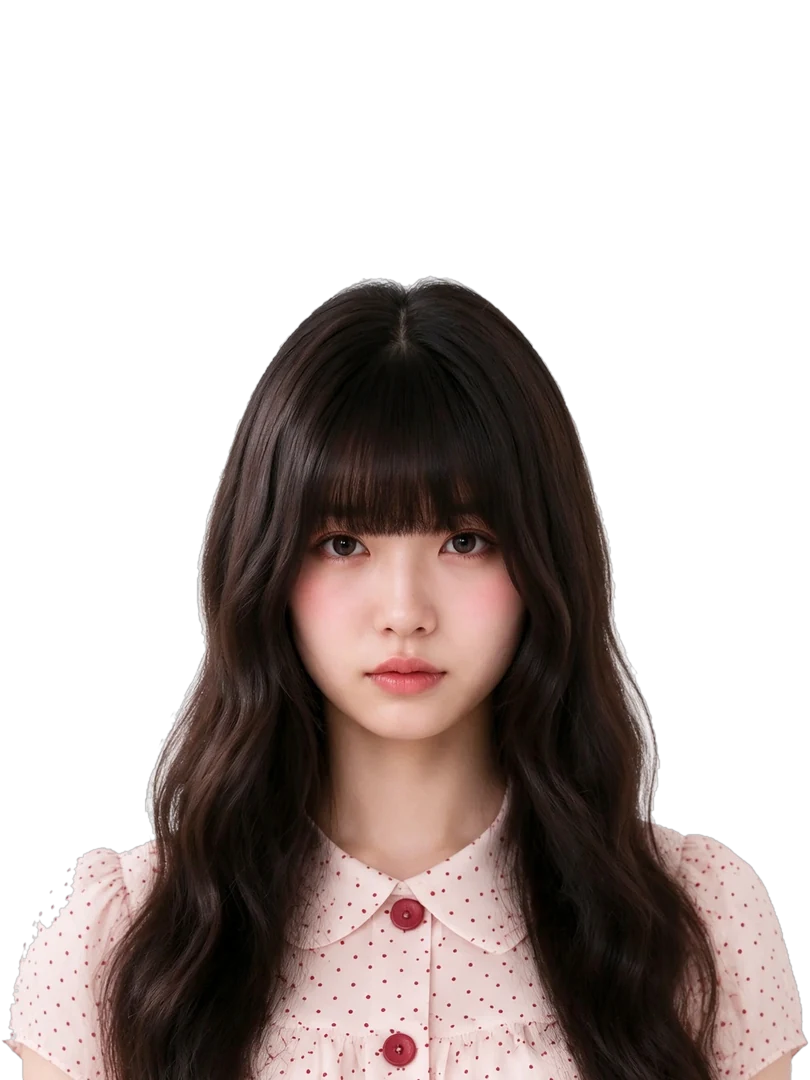
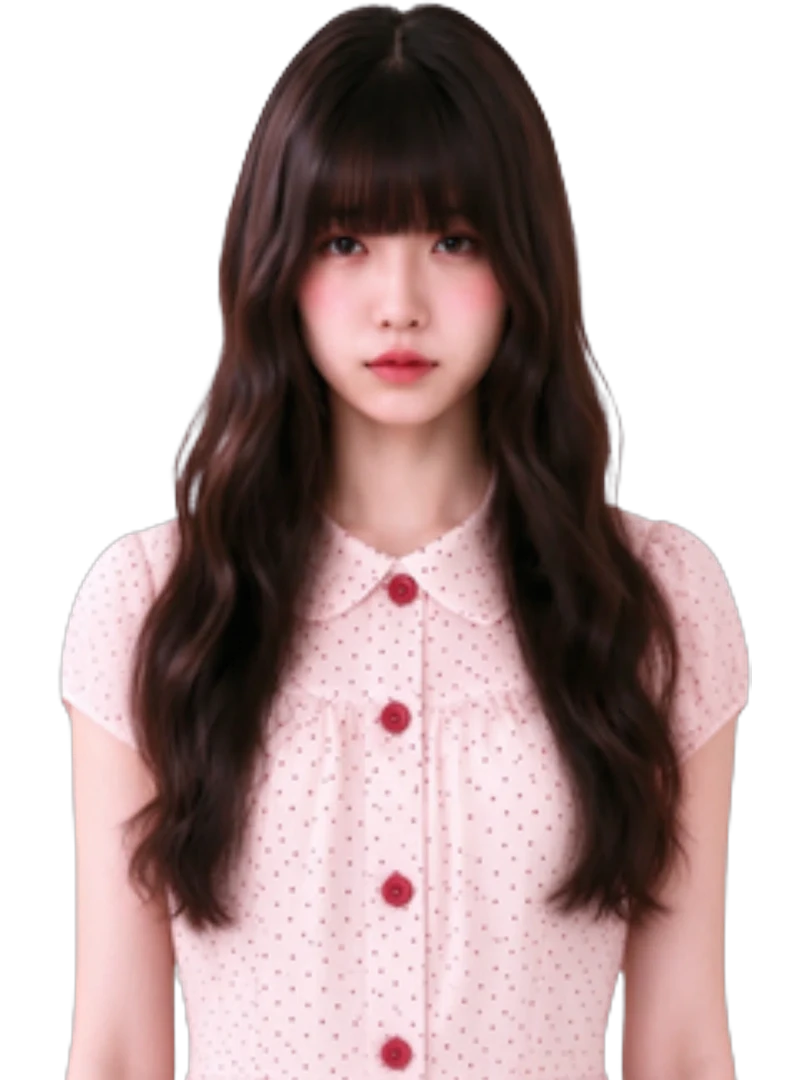
立绘

diff --git a/css/style.css b/css/style.css
@@ -4600,11 +4600,6 @@ body { font-synthesis: none; }
   filter: drop-shadow(0 22px 26px rgba(20, 16, 15, 0.38));
 }
 .vn-event__npc .vn-npc--cutout { height: 100%; }
-/* 事件弹层里的立绘底下没有对话框挡着，给最后一段加一点渐隐，避免看到「截断的胸口」 */
-.vn-event__npc .vn-npc--cutout .vn-npc__art {
-  -webkit-mask-image: linear-gradient(180deg, #000 86%, rgba(0, 0, 0, 0) 100%);
-  mask-image: linear-gradient(180deg, #000 86%, rgba(0, 0, 0, 0) 100%);
-}
 .vn-rel__art.is-cutout {
   background-color: transparent;
   background-size: contain;
@@ -5214,4 +5209,28 @@ body { font-synthesis: none; }
   top: calc(100% + 5px);
   left: 50%;
   transform: translateX(-50%);
+}
+
+
+/* =========================================================================
+   51. 事件弹层里的对方立绘放到对话框后面
+   —— .vn-event__npc 原来是 z-index: 2，而承载对话框的 .vn-event__inner 是 1，
+      于是立绘压在对话框前面；现在立绘 0、内容 1，和主角立绘一样在文字后面
+   ========================================================================= */
+.vn-event__npc { z-index: 0; }
+.vn-event__inner { z-index: 1; }
+.vn-npc { z-index: var(--z-sprite); }
+
+
+/* =========================================================================
+   52. 对方立绘也贴底
+   —— 主角 .vn-sprite 是 bottom: 0，而对方立绘在舞台是 10%、弹层是 8%，
+      看起来像「浮在半空」。统一贴到底线，和主角一致。
+   ========================================================================= */
+.vn-npc--stage,
+.vn-stage--map .vn-npc--stage {
+  bottom: 0;
+}
+.vn-event__npc {
+  bottom: 0;
 }

diff --git a/docs/DESIGN.md b/docs/DESIGN.md
@@ -438,6 +438,38 @@ emoji 的墨迹重心普遍偏低（📖 最明显，实测偏下 2.7px），用
 2. **关掉「动效」会吃掉过渡**：`.reduce-motion * { transition: none !important }` 是全站规则。
    选项卡填充**不再是例外**（之前为了调试临时开过口子，已移除）：关掉动效后填充立即到位，
    弹窗、抽屉、打字机、季节换色等动效也一并关闭。
+## 9.y0 攻略对象立绘（v1.3 换图）
+
+六张新图统一处理成 `810×1080`（3:4）、透明底 webp，放在 `media/characters/`，文件名不变，配置无需改：
+
+| 角色 | 造型 |
+|---|---|
+| 江叙 | 蓝白拼色运动夹克 |
+| 顾迟 | 黑发、细框眼镜、白衬衫 + 灰针织背心 |
+| 林予 | 报童帽 + 藏青连衣裙 |
+| 苏晚 | 黑色蝴蝶结 + 白色无袖裙 |
+| 周野 | 银发、白色风衣 + 高领 |
+| 唐棠 | 深棕卷发 + 粉色波点裙 |
+
+抠图：`白底 → 四角 flood fill 只删与边缘连通的白色 → 与原 alpha 取最小值 → 裁透明边 → 等比缩到高 1080、底部居中`。
+只删「连通的白色」是因为苏晚白裙、顾迟白衬衫都是白色，按亮度直接抠会把衣服一起抠掉。
+
+### 立绘比例
+
+| 素材 | 尺寸 | 比例 | 容器 |
+|---|---|---|---|
+| 主角 `assets/char/*.webp` | 880 × 1120 | **11 : 14** | `.vn-sprite`，高 `min(86vh, 800px)`、`aspect-ratio: 11/14`、宽 auto |
+| 攻略对象 `media/characters/*.webp` | 810 × 1080 | **3 : 4** | `.vn-npc--cutout` / `.vn-event__npc`，`aspect-ratio: 3/4`、宽 auto |
+
+两边都是 `background-size: contain`；容器与素材同比例后正好铺满，不裁切、不拉伸、无多余留白。
+
+### 层级与贴底
+
+- `.vn-event__npc` 由 `z-index: 2` 改为 `0`，`.vn-event__inner` 保持 `1` —— 弹层里的立绘和主角一样**在对话框后面**；
+- 对方立绘 `bottom` 由 10%（舞台）/ 8%（弹层）统一改为 **0**，和主角 `.vn-sprite` 一样**贴住画面底线**；
+- 同时删掉了 `.vn-event__npc .vn-npc--cutout .vn-npc__art` 上的底部渐隐遮罩（原来为了遮「截断的胸口」），现在立绘贴底、由对话框负责遮挡，不再需要渐隐；
+  实测 `innerHeight - rect.bottom = 0`（事件 / 舞台 / 地图三种场景）。
+
 ## 9.y2 实景照片地点
 
 五张实拍照片接进了场景池（`assets/bg/`），其中四张替换现有地点的背景，一张成为新地点：
